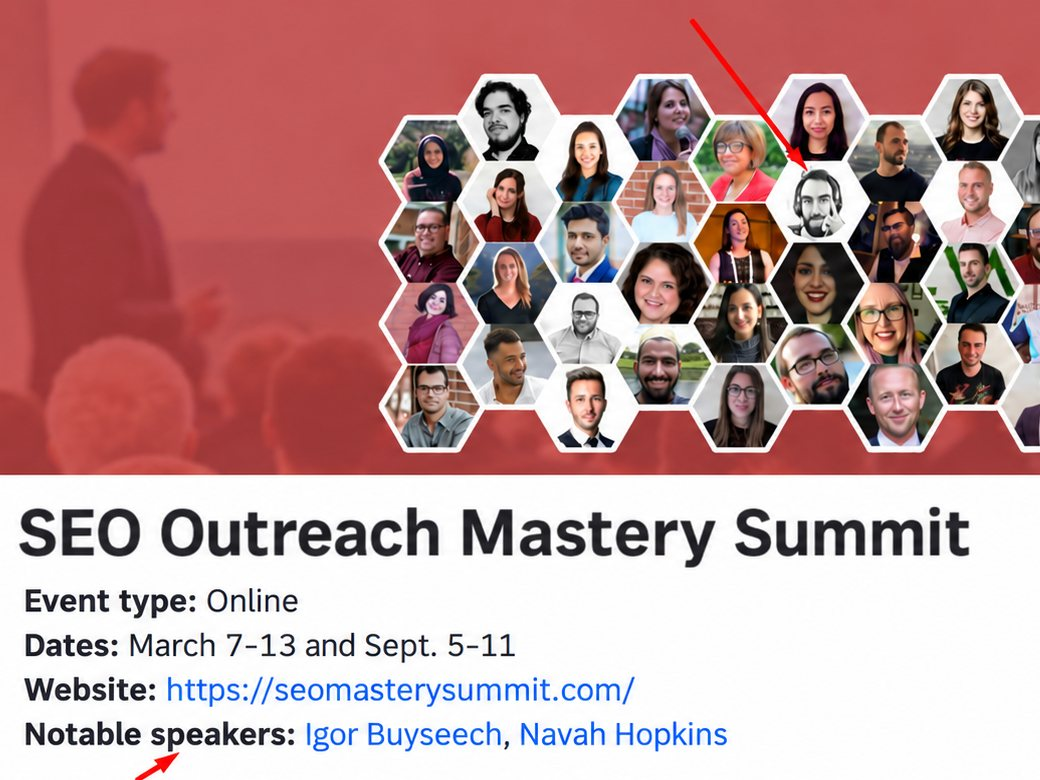
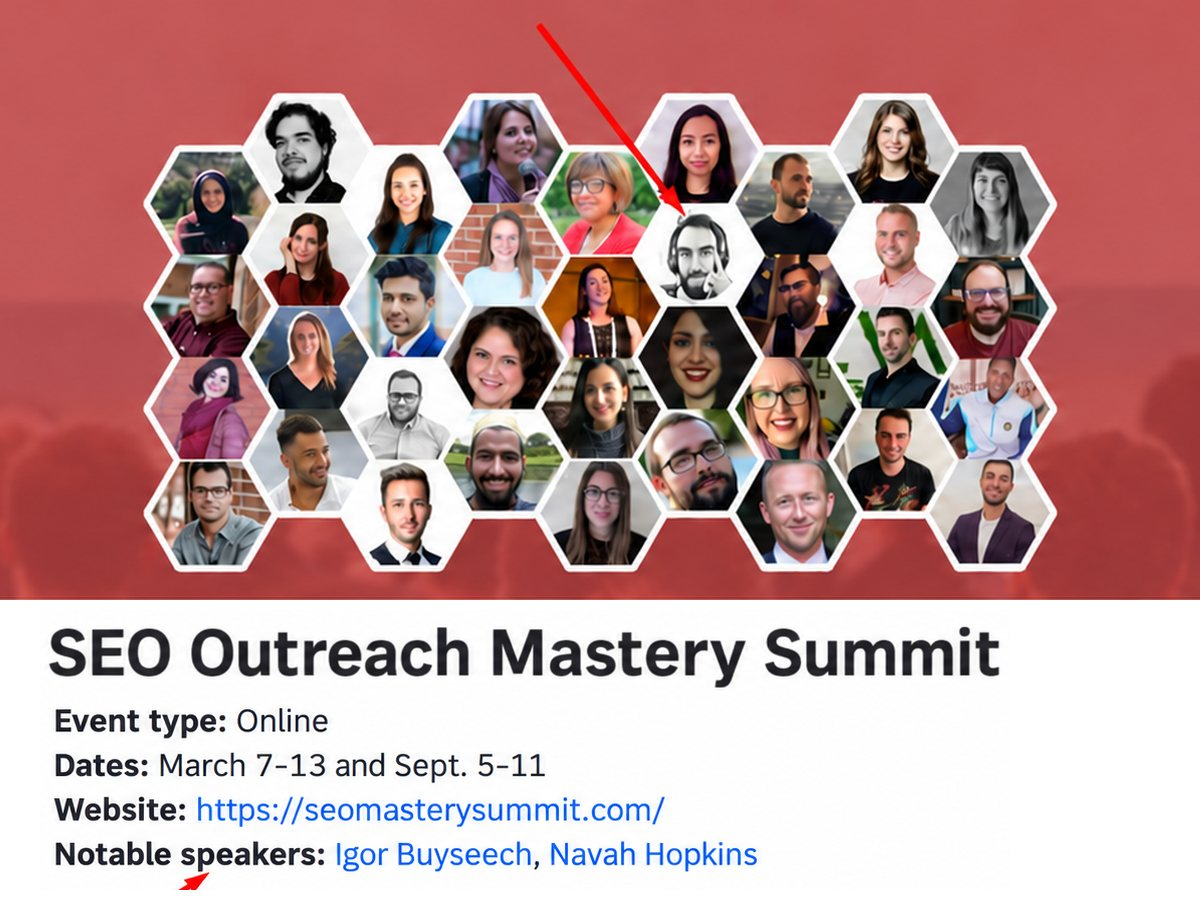
Rearrange SEO Mastery Summit image; say 'SEO events' in heading
Claude-Session: https://claude.ai/code/session_01A7u75tFGMvr5BrBKZXxjfb

diff --git a/public/index.html b/public/index.html
@@ -177,7 +177,7 @@
   <section id="stages" class="band" aria-labelledby="stages-title">
     <div class="wrap speaking">
       <div class="sec-head">
-        <h2 id="stages-title" class="h2">On three of the world&rsquo;s <span>biggest SEO stages.</span></h2>
+        <h2 id="stages-title" class="h2">On three of the world&rsquo;s <span>biggest SEO events.</span></h2>
         <p>Invited to teach other SEOs what actually works. The same playbook goes into every client project.</p>
       </div>
       <div class="talks">
@@ -199,7 +199,7 @@
           </div>
         </article>
         <article class="talk">
-          <img class="talk-media talk-media--top" src="assets/img/seo-mastery-summit-2022.jpg" width="1040" height="780" loading="lazy" alt="SEO Outreach Mastery Summit speaker lineup, listing Igor Buyseech as a notable speaker">
+          <img class="talk-media talk-media--top" src="assets/img/seo-mastery-summit-2022.jpg" width="1200" height="900" loading="lazy" alt="SEO Outreach Mastery Summit speaker lineup, listing Igor Buyseech as a notable speaker">
           <div class="talk-body">
             <p class="kicker">Speaker · 2022</p>
             <h3>SEO Mastery Summit</h3>
